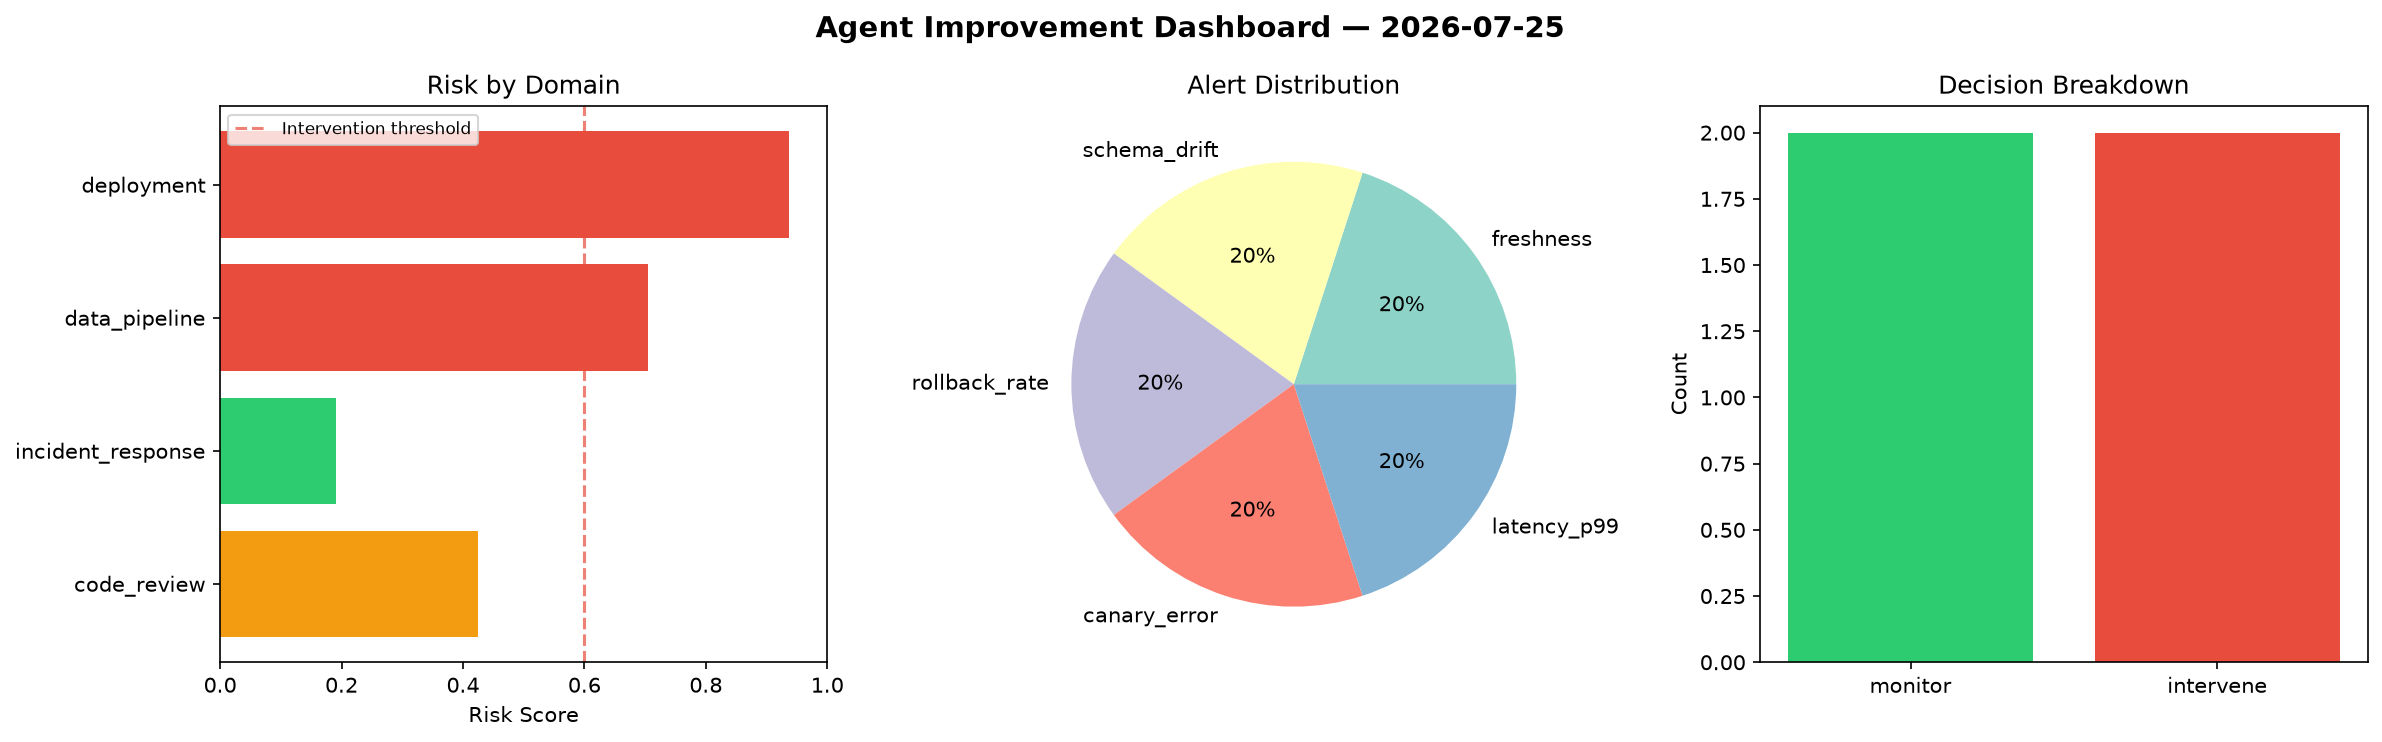
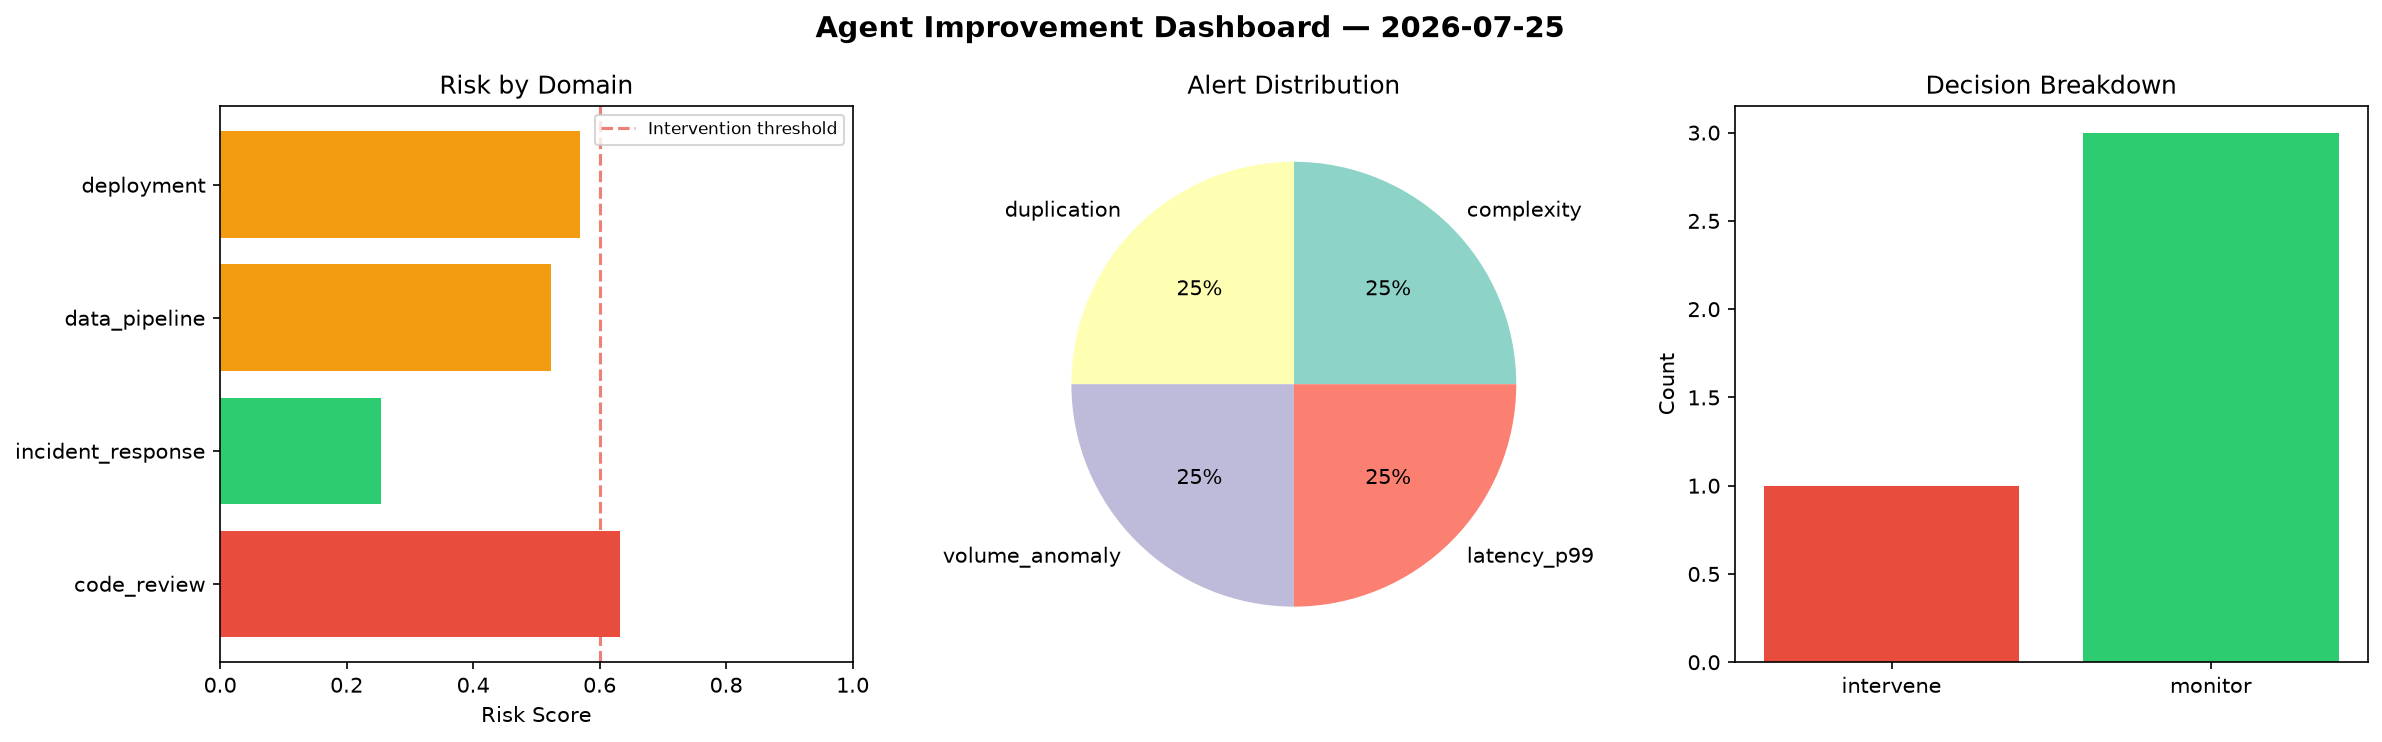
agent-improvement: daily cycle 2026-07-25T15:19

diff --git a/logs/2026-07-25.md b/logs/2026-07-25.md
@@ -1,6 +1,6 @@
 # Agent Improvement Report — 2026-07-25
 
-**Cycle ID:** `cb29c412` | **Avg Risk:** 0.5643 | **Interventions:** 2/4
+**Cycle ID:** `ae143a44` | **Avg Risk:** 0.4946 | **Interventions:** 1/4
 
 ![Dashboard](2026-07-25_dashboard.png)
 
@@ -10,18 +10,18 @@
 
 | Domain | Risk Score | Decision | Alerts |
 |--------|-----------|----------|--------|
-| code_review | 0.4247 | monitor | none |
-| incident_response | 0.1909 | monitor | none |
-| data_pipeline | 0.7049 | intervene | freshness, schema_drift |
-| deployment | 0.9368 | intervene | rollback_rate, canary_error, latency_p99 |
+| code_review | 0.6327 | intervene | complexity, duplication |
+| incident_response | 0.2537 | monitor | none |
+| data_pipeline | 0.523 | monitor | volume_anomaly |
+| deployment | 0.569 | monitor | latency_p99 |
 
 ## Delta vs Yesterday
 
 | Domain | Today | Yesterday | Change |
 |--------|-------|-----------|--------|
-| code_review | 0.4247 | 0.19 | 📈 123.5% |
-| incident_response | 0.1909 | 0.6337 | 📉 -69.9% |
-| data_pipeline | 0.7049 | 0.3608 | 📈 95.4% |
-| deployment | 0.9368 | 0.0927 | 📈 910.6% |
+| code_review | 0.6327 | 0.19 | 📈 233.0% |
+| incident_response | 0.2537 | 0.6337 | 📉 -60.0% |
+| data_pipeline | 0.523 | 0.3608 | 📈 45.0% |
+| deployment | 0.569 | 0.0927 | 📈 513.8% |
 
-**Refinement:** `{'adjustment': 'tighten_thresholds', 'trend': 'degrading', 'window': 4}`
+**Refinement:** `{'adjustment': 'maintain', 'trend': 'improving', 'window': 4}`
